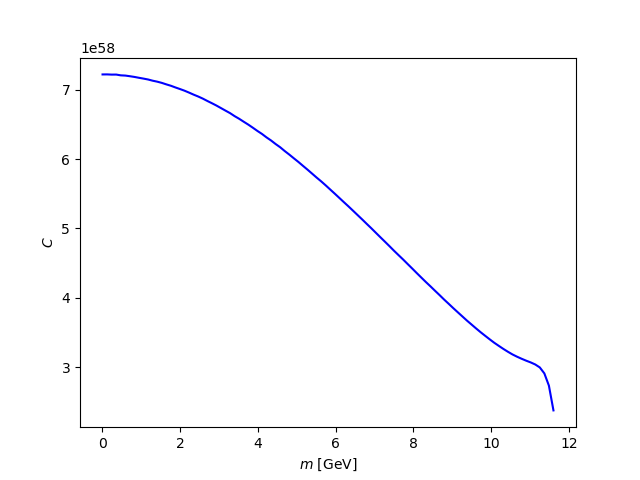
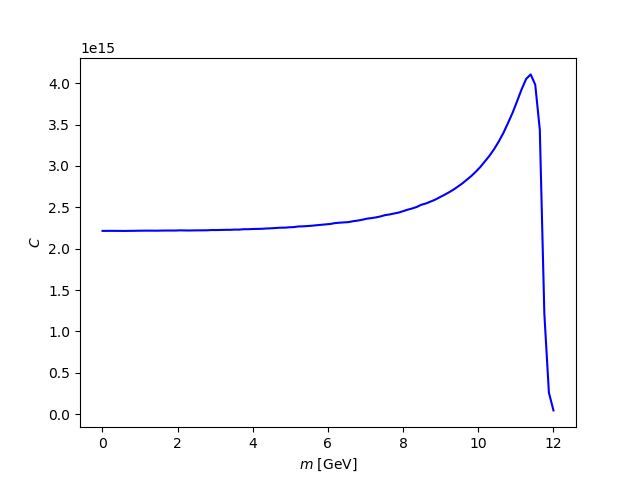
ok

diff --git a/cap_rate/MC_cap.c b/cap_rate/MC_cap.c
@@ -309,7 +309,7 @@ int main ()
        //double Br = B_r(vmax);
 
        //dCdr[i] = rate_integral( 1., muFn, vmax )*sqrt(1.-Br)/Br/Br;
-       dCdr[i] = rate_integral( 1e0, muFn, vmax, 220e3 ) * nd*nd/nresc;
+       dCdr[i] = rate_integral( 1e-3, muFn, vmax, 0 ) * nd*nd/nresc * (0.5e-41)/NSVEL;
 
        fprintf(outfile,"%0.10E\t%.10E\t%.10E\t%0.10E\t%.10E\t%.10E\n", radint[i], dCdr[i] , nd_interp(radint[i], npts)/ nresc, muFn,vmax/SOL);
        //dCdr[i] = log(radint[i] * radint[i] *1e6 * nd_interp(radint[i], npts) /nresc*rate_integral( mass_vals[j], muFn, vmax ));

diff --git a/cap_rate/NSinterp.c b/cap_rate/NSinterp.c
@@ -57,7 +57,7 @@ int readdata(char * filename){
    fclose(datafile);
 
    rmin = rad[0];
-   rmax = 11.6; // NS core
+   rmax = 12; // NS core
    //rmax = 12.158947177343357; // R inner crust
   //  printf("Npts: %d\n",npts);
    return npts;
